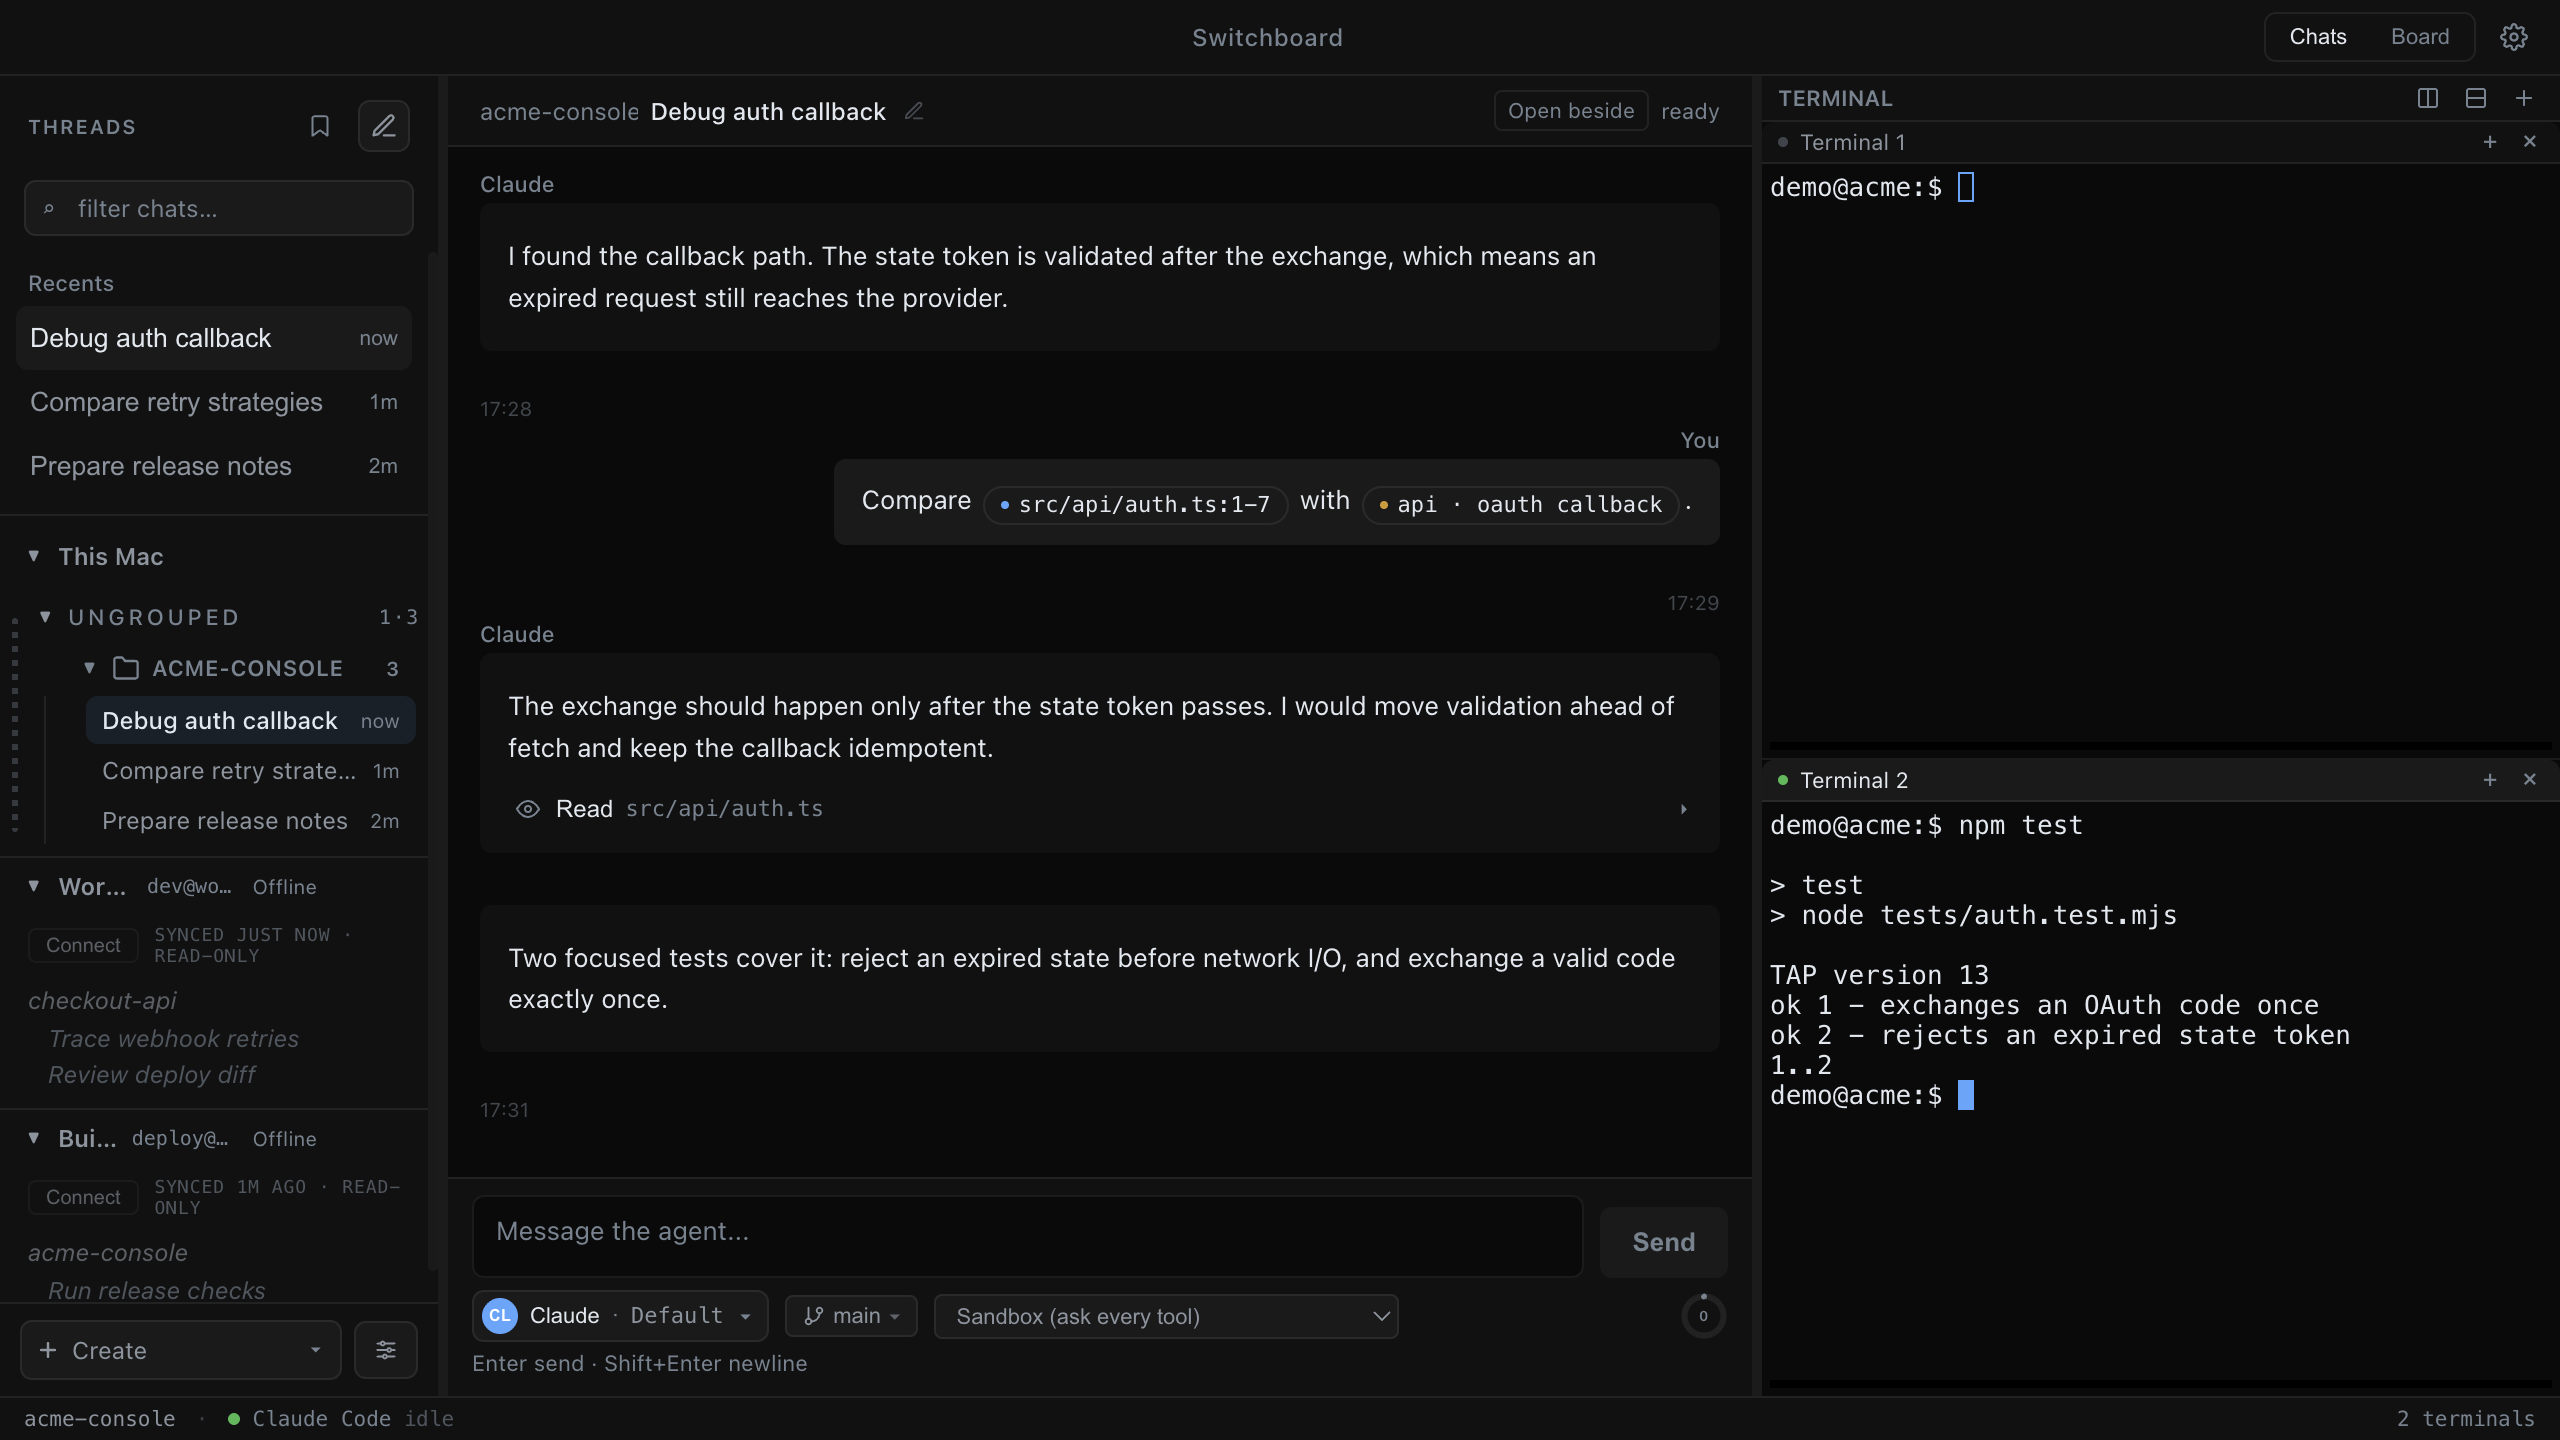
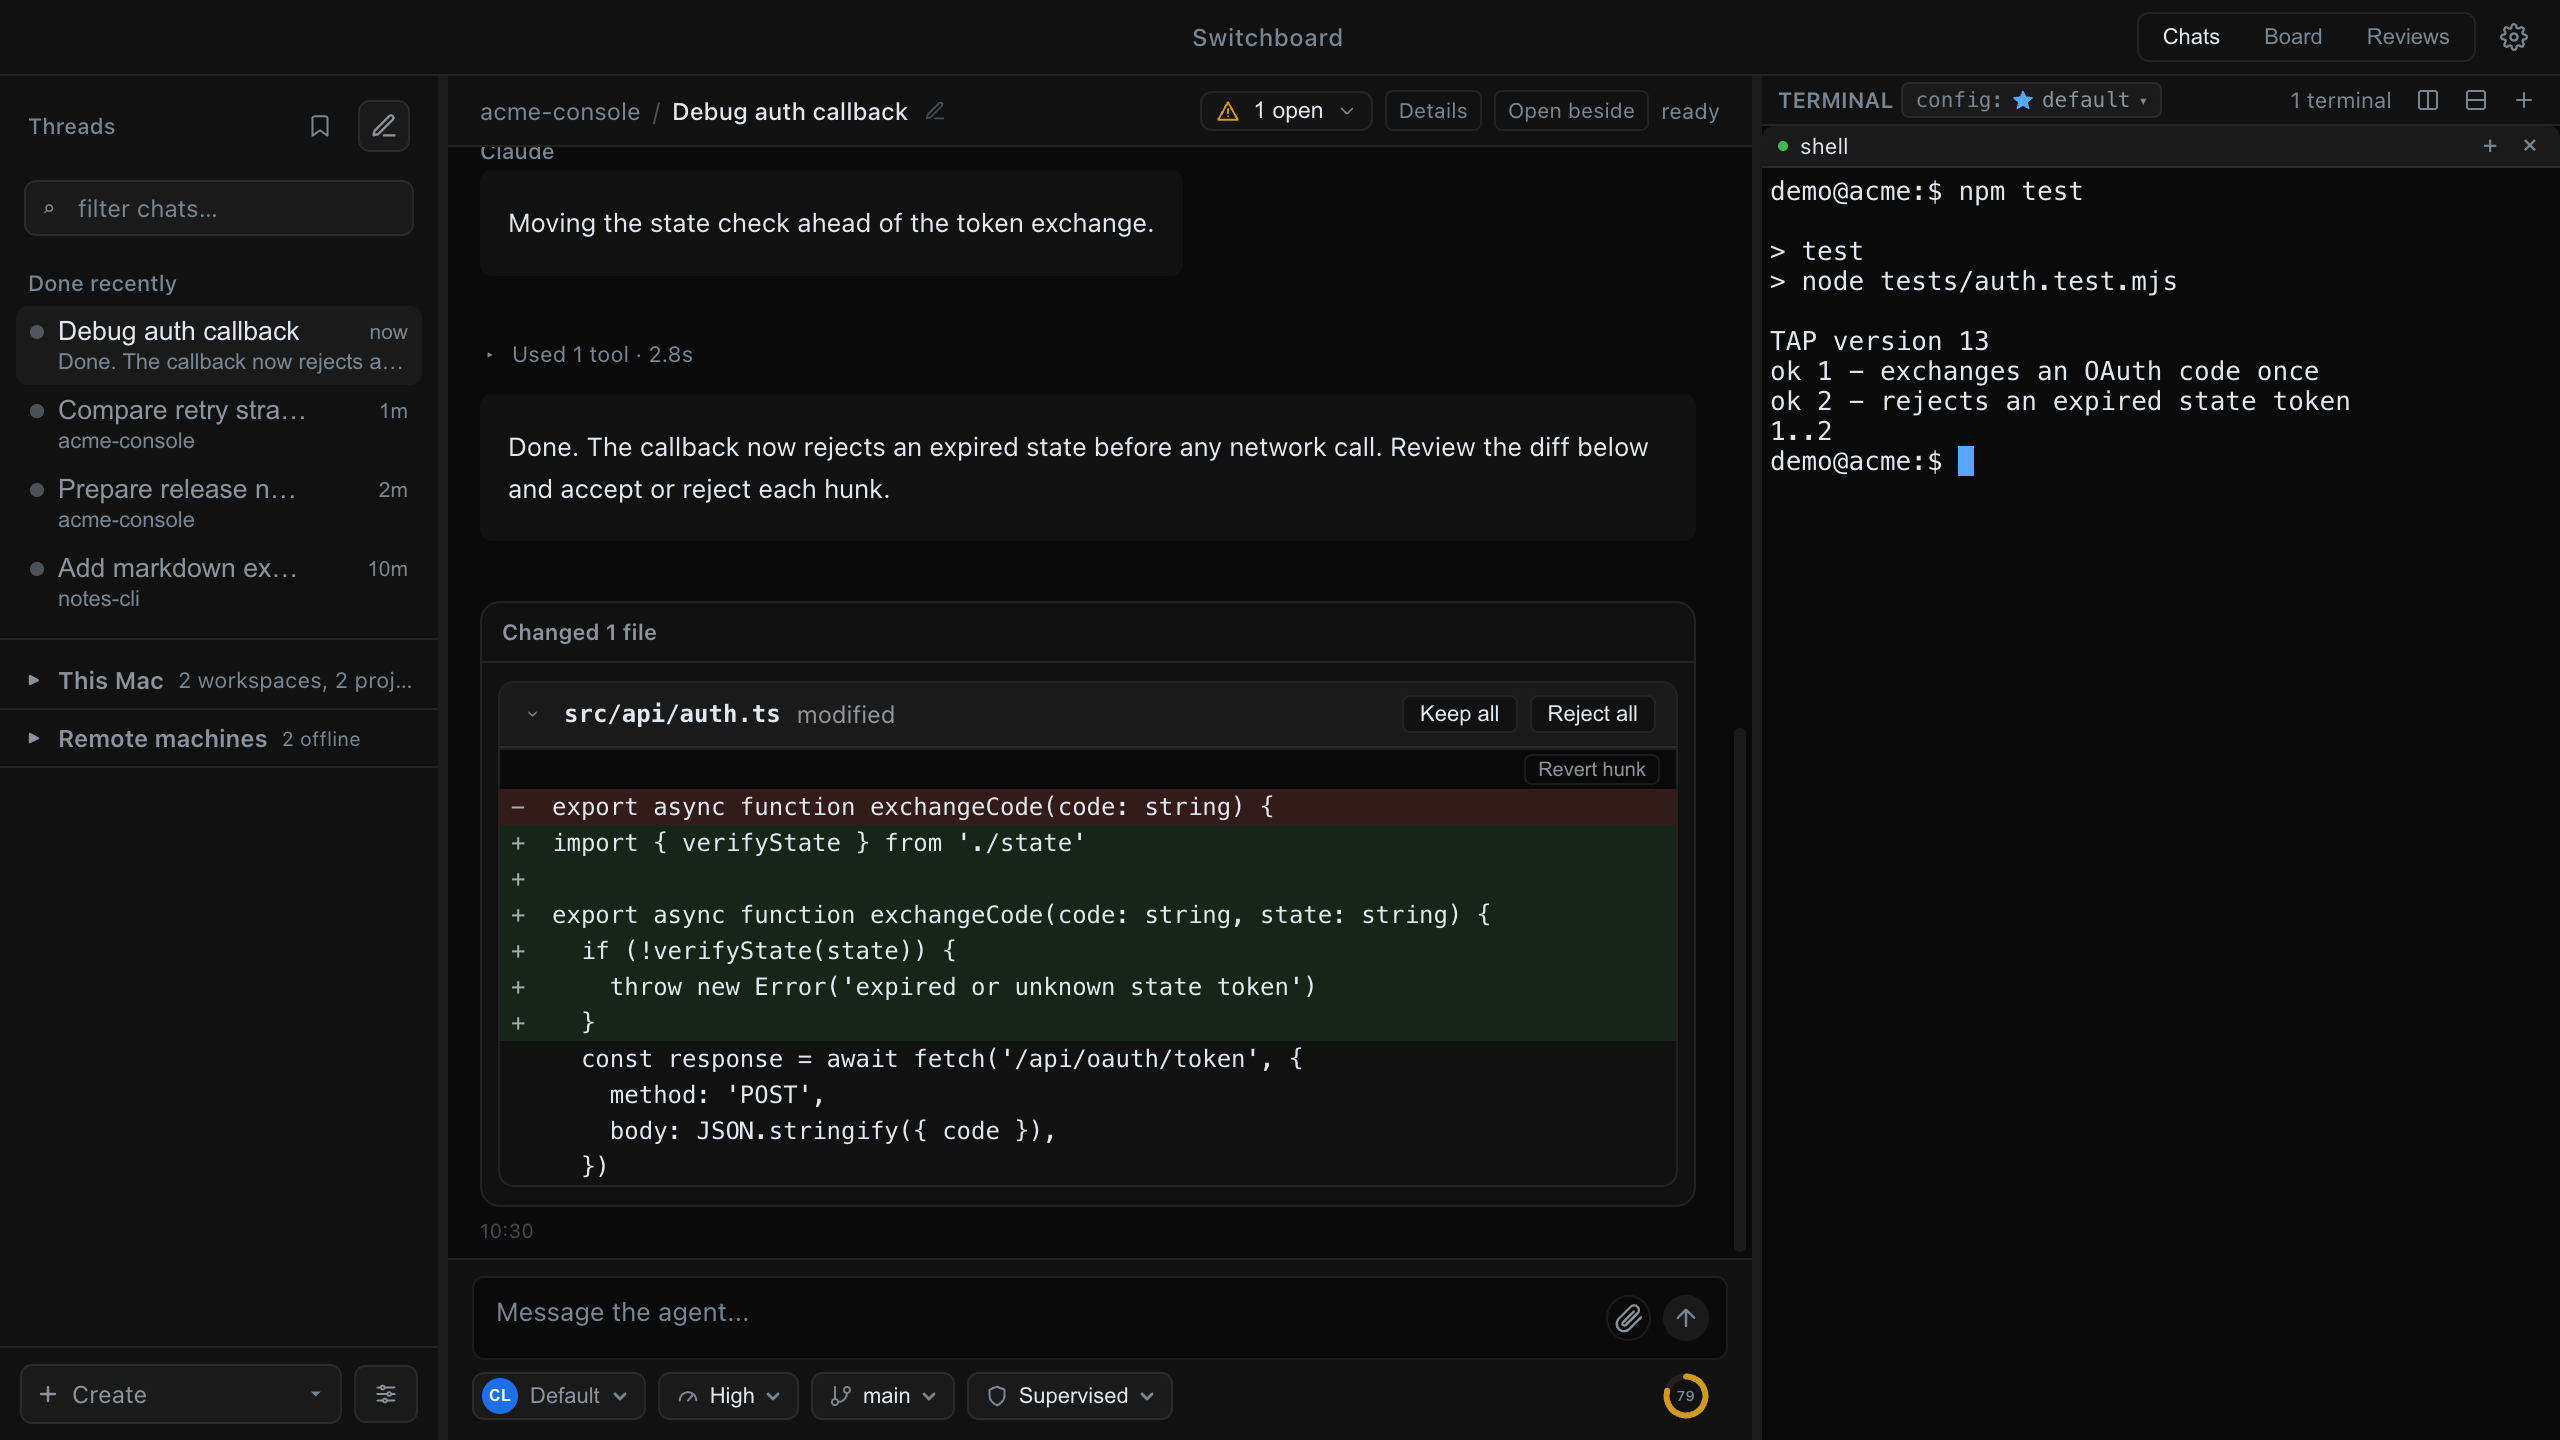
Refresh README hero with a current demo workspace

diff --git a/README.md b/README.md
@@ -4,7 +4,7 @@
 
 [Product site](https://switchboard.tn07.dev/) | [Latest release](https://github.com/tejasnafde/switchboard/releases/latest)
 
-![Switchboard: an agent chat with terminal and file pills beside two terminal panes](docs/images/hero.png)
+![Switchboard: a demo agent chat with an expanded diff beside a terminal showing passing tests](docs/images/hero.png)
 
 https://github.com/user-attachments/assets/75bc0e76-67ba-4d28-aceb-3c8e1db34b14
 
